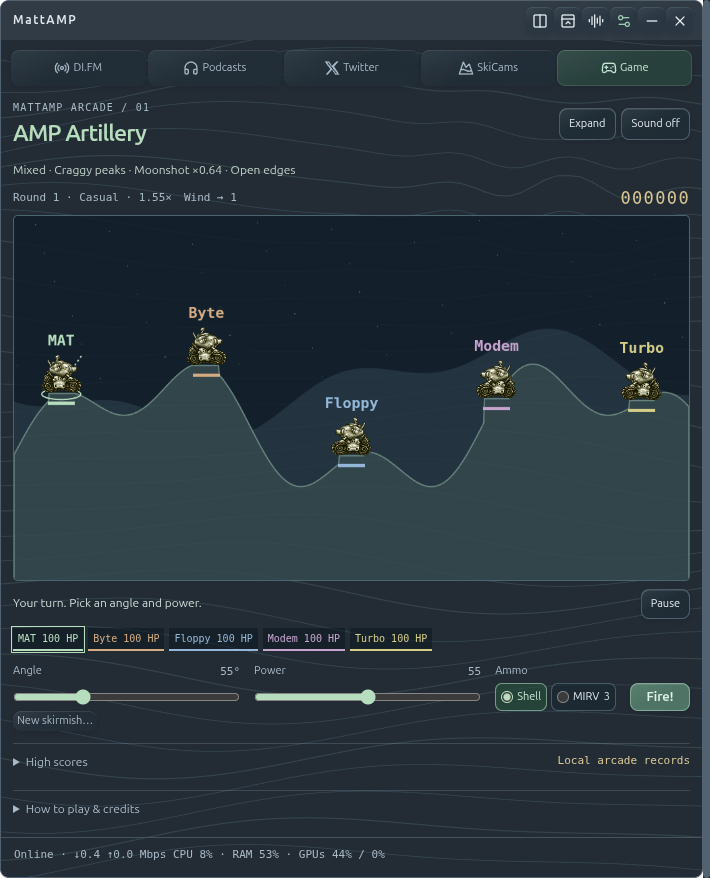
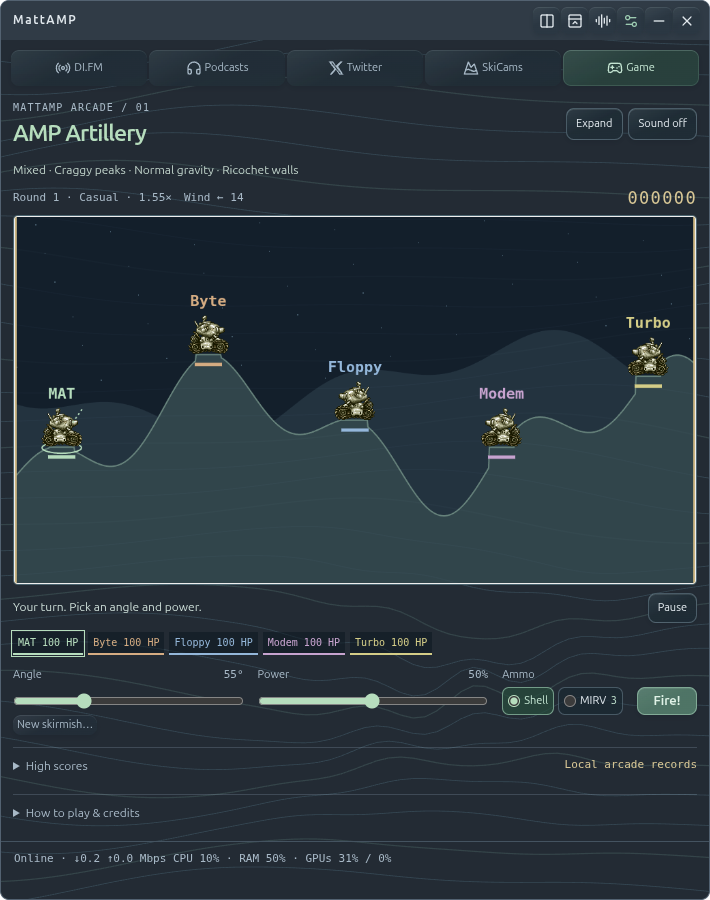
Rebalance artillery power and show bot launch settings

diff --git a/src/artillery-ui.js b/src/artillery-ui.js
@@ -3,7 +3,7 @@ class MattArcade{
  constructor(panel,onResize){
   this.panel=panel;this.onResize=onResize;this.$=id=>panel.querySelector('#game-'+id);this.canvas=this.$('canvas');this.ctx=this.canvas.getContext('2d');
   this.visible=false;this.expanded=false;this.paused=false;this.sound=true;this.battle=null;this.preview=this.createPreview();this.raf=0;this.last=0;this.lastState='';this.record=null;this.saving=false;this.audio=[];this.assets={};
-  this.bubbleTimer=0;this.lastQuip='';this.volley=null;this.dance=null;
+  this.shotTimer=0;this.bubbleTimer=0;this.lastQuip='';this.volley=null;this.dance=null;
   this.victory=new MattVictory(this.$('victory'),()=>{if(this.visible)(this.$('again').disabled?this.canvas:this.$('again')).focus({preventScroll:true});});
   this.victory.motion.addEventListener('change',()=>{if(this.dance&&this.victory.motion.matches)this.finishDance();});
   this.quipResize=new ResizeObserver(()=>this.positionQuip());this.quipResize.observe(this.canvas);
@@ -65,19 +65,25 @@ class MattArcade{
  refreshPreview(){if(this.battle)return;this.preview=this.createPreview();this.render();this.draw();this.onResize();}
  async loadScores(){try{const res=await window.deck.arcadeRead();if(!res.ok)throw new Error(res.error);this.scores=res.data;this.$('initials').value=res.data.initials||'MAT';this.updatePreviewName();this.renderScores();}catch(e){this.$('score-empty').textContent=e.message;}}
  start(){
-  this.victory.stop();this.clearQuip();this.volley=null;this.dance=null;
+  this.victory.stop();this.clearQuip();this.clearShot();this.volley=null;this.dance=null;
   this.battle=this.preview;this.battle.history=(this.scores?.rivalry||[]).slice(-3);this.initials=this.$('initials').value.toUpperCase()||'MAT';this.battle.tanks[0].name=this.initials;this.id=crypto.randomUUID();this.record=null;this.paused=false;this.lastState='';
   this.$('setup').hidden=true;this.$('end').hidden=true;this.$('abandon').hidden=true;this.$('save-retry').hidden=true;this.$('new').hidden=false;
-  this.$('angle').value=this.battle.tanks[0].angle;this.$('power').value=55;this.$('weapon-shell').checked=true;this.updateAim();this.sync();this.$('angle').focus();
+  this.$('angle').value=this.battle.tanks[0].angle;this.$('power').value=50;this.$('weapon-shell').checked=true;this.updateAim();this.sync();this.$('angle').focus();
  }
- reset(){this.victory.stop();this.clearQuip();this.volley=null;this.dance=null;this.battle=null;this.preview=this.createPreview();this.record=null;this.paused=false;this.$('setup').hidden=false;this.$('end').hidden=true;this.$('abandon').hidden=true;this.$('new').hidden=true;this.$('roster').replaceChildren();this.sync();this.$('start').focus();}
+ reset(){this.victory.stop();this.clearQuip();this.clearShot();this.volley=null;this.dance=null;this.battle=null;this.preview=this.createPreview();this.record=null;this.paused=false;this.$('setup').hidden=false;this.$('end').hidden=true;this.$('abandon').hidden=true;this.$('new').hidden=true;this.$('roster').replaceChildren();this.sync();this.$('start').focus();}
  updateAim(){
-  const angle=Number(this.$('angle').value),power=Number(this.$('power').value);this.$('angle-value').textContent=angle+'°';this.$('power-value').textContent=power;
+  const angle=Number(this.$('angle').value),power=Number(this.$('power').value);this.$('angle-value').textContent=angle+'°';this.$('power-value').textContent=power+'%';this.$('power').setAttribute('aria-valuetext',power+' percent');
   if(this.battle?.phase==='aim'&&this.battle.active.id===0){this.battle.active.angle=angle;this.battle.active.power=power;}
  }
  adjustAim(control,delta){const input=this.$(control);input.value=Math.max(Number(input.min),Math.min(Number(input.max),Number(input.value)+delta));this.updateAim();this.draw();}
  captureVolley(){return {owner:this.battle.active.id,tanks:this.battle.tanks.map(({id,x,y,hp})=>({id,x,y,hp}))};}
  fire(){if(this.paused||!this.visible||!this.battle)return;const volley=this.captureVolley();if(this.battle.active.id===0&&this.battle.fire(Number(this.$('angle').value),Number(this.$('power').value),(this.$('weapon-mirv').checked?'mirv':'shell'))){this.volley=volley;this.playSound('fire');this.sync();}}
+ clearShot(){clearTimeout(this.shotTimer);this.$('shot').hidden=true;}
+ showBotShot(tank){
+  this.clearShot();if(tank.id===0)return;
+  this.$('shot').textContent=tank.name+' · '+Math.round(tank.angle)+'° · '+Math.round(tank.power)+'% power';
+  this.$('shot').hidden=false;this.shotTimer=setTimeout(()=>this.clearShot(),3000);
+ }
  clearQuip(){clearTimeout(this.bubbleTimer);this.$('quip').hidden=true;}
  positionQuip(){const bubble=this.$('quip');if(bubble.hidden||!this.quipSpeaker)return;const x=this.quipSpeaker.x/1000*this.canvas.clientWidth-bubble.offsetLeft;bubble.style.setProperty('--tail-x',Math.max(14,Math.min(bubble.clientWidth-14,x))+'px');}
  reactToVolley(){
@@ -111,7 +117,7 @@ class MattArcade{
  setExpanded(expanded){this.expanded=expanded;this.panel.classList.toggle('game-expanded',expanded);document.getElementById('deck').classList.toggle('arcade-expanded',expanded);window.scrollTo(0,0);this.$('expand').textContent=expanded?'Restore':'Expand';this.$('expand').setAttribute('aria-pressed',String(expanded));this.onResize();}
  setVisible(visible){if(this.visible===visible)return;this.visible=visible;if(!visible)this.silence();this.sync();}
  sync(){
-  if(!this.visible||this.paused){this.clearQuip();this.victory.stop();this.dance=null;}
+  if(!this.visible||this.paused){this.clearQuip();this.clearShot();this.victory.stop();this.dance=null;}
   cancelAnimationFrame(this.raf);this.raf=0;this.last=0;this.render();this.draw();
   if(this.visible&&!this.paused&&this.battle&&(this.battle.phase!=='over'||this.dance))this.raf=requestAnimationFrame(t=>this.tick(t));
   if(this.paused)this.silence();this.onResize();
@@ -125,7 +131,7 @@ class MattArcade{
    this.draw();this.raf=requestAnimationFrame(t=>this.tick(t));return;
   }
   const phase=b.phase,blasts=b.blasts.length,children=b.projectiles.length,volley=phase==='aim'?this.captureVolley():null;b.step(dt);
-  if(phase==='aim'&&b.phase==='flight'){this.volley={...volley,target:b.lastTarget};this.playSound('fire');this.tauntRival();}
+  if(phase==='aim'&&b.phase==='flight'){this.volley={...volley,target:b.lastTarget};this.playSound('fire');this.showBotShot(b.active);this.tauntRival();}
   if(phase==='flight'&&b.phase==='settle')this.reactToVolley();
   if(b.blasts.length>blasts)this.playSound('blast');
   if(children===1&&b.projectiles.length===5)this.playSound('split');
@@ -135,7 +141,7 @@ class MattArcade{
   if(b.phase==='over'){
    b.blasts=[];this.draw();
    if(!this.record){
-    this.record=b.record(this.initials,this.id);this.clearQuip();
+    this.record=b.record(this.initials,this.id);this.clearQuip();this.clearShot();
     const winner=b.tanks.find(t=>t.hp>0);
     if(winner&&!this.victory.motion.matches)this.dance={id:winner.id,elapsed:0,wheelie:Math.random()<1/3};
     if(b.result==='win')this.silence();else this.playSound('loss');

diff --git a/src/artillery.js b/src/artillery.js
@@ -5,6 +5,8 @@
  const SKILLS=[{name:'Very dumb',error:200,retaliation:.15,samples:8,multiplier:1},{name:'Casual',error:110,retaliation:.65,samples:28,multiplier:1.35},{name:'Sharp',error:55,retaliation:1.3,samples:90,multiplier:1.8},{name:'Human-ish',error:28,retaliation:2,samples:160,multiplier:2.2}];
  const COLORS=['#b6ddbd','#d5ac82','#94b7da','#c7a3cf','#d4cd87','#83c5c2'];
  const clamp=(n,a,b)=>Math.max(a,Math.min(b,n));
+ // Fine control for nearby shots; retain the old maximum for long lobs and wild wind.
+ const launchSpeed=power=>40+530*(clamp(power,1,100)/100)**2;
  const TERRAINS={rolling:'Rolling hills',valley:'Valley',crags:'Craggy peaks',plateaus:'Plateaus',flat:'Flatlands'};
  const GRAVITY={normal:125,moon:80,heavy:200};
  const GRAVITY_NAMES={normal:'Normal gravity',moon:'Moonshot ×0.64',heavy:'Heavy gravity ×1.6'};
@@ -42,7 +44,7 @@
    }
    const slots=Array.from({length:this.bots+1},(_,i)=>70+i*860/this.bots);
    const playerSlot=Math.floor(random()*slots.length);
-   this.tanks=slots.map((x,i)=>({id:i===playerSlot?0:i<playerSlot?i+1:i,name:i===playerSlot?'YOU':['Byte','Floppy','Modem','Turbo','DOS'][i<playerSlot?i:i-1],x,y:this.ground(x)-8,hp:100,mirvs:3,angle:x<W/2?55:125,power:55,color:COLORS[i===playerSlot?0:i<playerSlot?i+1:i]})).sort((a,b)=>a.id-b.id);
+   this.tanks=slots.map((x,i)=>({id:i===playerSlot?0:i<playerSlot?i+1:i,name:i===playerSlot?'YOU':['Byte','Floppy','Modem','Turbo','DOS'][i<playerSlot?i:i-1],x,y:this.ground(x)-8,hp:100,mirvs:3,angle:x<W/2?55:125,power:50,color:COLORS[i===playerSlot?0:i<playerSlot?i+1:i]})).sort((a,b)=>a.id-b.id);
    for(const tank of this.tanks)for(let x=Math.round(tank.x)-18;x<=tank.x+18;x++)this.terrain[x]=tank.y+8;
    this.turn=0;this.round=1;this.shots=0;this.kills=0;this.damage=0;this.phase='aim';this.projectiles=[];this.blasts=[];this.lastTrails=[];this.wind=this.newWind();this.delay=0;this.result=null;
    this.message='Your turn. Pick an angle and power.';
@@ -58,11 +60,11 @@
   }
   get multiplier(){return SKILLS[this.skill].multiplier*(1+(this.bots-3)*.15);}
   get score(){return Math.round((this.damage*10+this.kills*250+(this.result==='win'?1000+this.tanks[0].hp*5:0))*this.multiplier);}
-  projectile(tank,angle,power,weapon){const r=angle*Math.PI/180,speed=100+power*4.7;return {x:tank.x+Math.cos(r)*18,y:tank.y-Math.sin(r)*18,vx:Math.cos(r)*speed,vy:-Math.sin(r)*speed,weapon,owner:tank.id,time:0,trail:[]};}
+  projectile(tank,angle,power,weapon){const r=angle*Math.PI/180,speed=launchSpeed(power);return {x:tank.x+Math.cos(r)*18,y:tank.y-Math.sin(r)*18,vx:Math.cos(r)*speed,vy:-Math.sin(r)*speed,weapon,owner:tank.id,time:0,trail:[]};}
   fire(angle,power,weapon='shell'){
    if(this.phase!=='aim'||this.active.hp<=0||!Number.isFinite(angle)||!Number.isFinite(power)||!['shell','mirv'].includes(weapon))return false;
    if(weapon==='mirv'&&this.active.mirvs<=0)return false;
-   this.active.angle=clamp(angle,5,175);this.active.power=clamp(power,10,100);
+   this.active.angle=clamp(angle,5,175);this.active.power=clamp(power,1,100);
    if(weapon==='mirv')this.active.mirvs--;
    if(this.active.id===0)this.shots++;
    this.projectiles=[this.projectile(this.active,this.active.angle,this.active.power,weapon)];this.lastTrails=[];this.phase='flight';this.message=this.active.name+' fired '+(weapon==='mirv'?'a MIRV.':'a shell.');return true;
@@ -110,11 +112,11 @@
    // Reputation changes target odds equally for human and bot identities, never accuracy.
    const tank=this.active,target=this.chooseTarget(),skill=SKILLS[this.skill];
    const targetX=clamp(target.x+(this.random()-.5)*2*skill.error,15,W-15);
-   let best={angle:55,power:55,cost:Infinity};
+   let best={angle:55,power:50,cost:Infinity};
    for(let i=0;i<skill.samples;i++){
     // Special boundaries make firing away from the target a valid bank/portal shot.
     const right=(targetX>tank.x)!==(this.conditions.walls!=='open'&&i%3===0);
-    const angle=right?10+this.random()*75:95+this.random()*75,power=20+this.random()*80;
+    const angle=right?10+this.random()*75:95+this.random()*75,power=1+this.random()*99;
     const p=this.predict(tank,angle,power),cost=Math.hypot(p.x-targetX,p.y-target.y)+(Math.abs(p.x-tank.x)<55?180:0);
     if(cost<best.cost)best={angle,power,cost};
    }
@@ -171,6 +173,6 @@
   memory(){const alive=this.tanks.filter(t=>t.hp>0);return {winner:alive.length===1?alive[0].id:null,damage:this.damageLedger.map(row=>[...row])};}
   record(initials,id){if(this.phase!=='over')return null;return {id,initials,score:this.score,win:this.result==='win',result:this.result,bots:this.bots,skill:this.skill,kills:this.kills,shots:this.shots,conditions:{...this.conditions},memory:this.memory()};}
  }
- const api={Battle,SKILLS,COLORS,W,H,CHAOS,TERRAINS,GRAVITY,WALLS,rollConditions,validateConditions,describeConditions};
+ const api={Battle,launchSpeed,SKILLS,COLORS,W,H,CHAOS,TERRAINS,GRAVITY,WALLS,rollConditions,validateConditions,describeConditions};
  if(typeof module==='object'&&module.exports)module.exports=api;else root.MattArtillery=api;
 })(typeof window==='object'?window:globalThis);

diff --git a/src/index.html b/src/index.html
@@ -50,13 +50,13 @@
    </form>
    <p id="game-conditions" class="game-conditions" aria-live="polite"></p>
    <div class="game-hud"><span id="game-round">Last tank standing</span><span id="game-wind">Wind —</span><strong id="game-score">000000</strong></div>
-   <section id="game-victory" aria-label="Victory celebration" hidden></section><div class="game-stage"><div class="game-field"><canvas id="game-canvas" tabindex="0" width="1000" height="540" role="img" aria-label="Artillery battlefield. Aim with the controls below."></canvas><div id="game-quip" role="status" aria-live="polite" aria-atomic="true" hidden><strong id="game-quip-name"></strong><span id="game-quip-text"></span></div><div id="game-overlay"><strong id="game-overlay-title">A little scorched nostalgia.</strong><span id="game-overlay-detail">One ridge. You and 3–5 bots. Three MIRVs each.</span><span id="game-replay-hint" hidden>Click the battlefield for a new skirmish.</span></div><button id="game-again" type="button" aria-label="New skirmish" aria-describedby="game-save-status" hidden><span class="sr-only">New skirmish</span></button></div></div>
+   <section id="game-victory" aria-label="Victory celebration" hidden></section><div class="game-stage"><div class="game-field"><div id="game-shot" role="status" aria-live="polite" aria-atomic="true" hidden></div><canvas id="game-canvas" tabindex="0" width="1000" height="540" role="img" aria-label="Artillery battlefield. Aim with the controls below."></canvas><div id="game-quip" role="status" aria-live="polite" aria-atomic="true" hidden><strong id="game-quip-name"></strong><span id="game-quip-text"></span></div><div id="game-overlay"><strong id="game-overlay-title">A little scorched nostalgia.</strong><span id="game-overlay-detail">One ridge. You and 3–5 bots. Three MIRVs each.</span><span id="game-replay-hint" hidden>Click the battlefield for a new skirmish.</span></div><button id="game-again" type="button" aria-label="New skirmish" aria-describedby="game-save-status" hidden><span class="sr-only">New skirmish</span></button></div></div>
    <div class="game-console">
    <div class="game-turn"><p id="game-status" role="status">Choose your rivals, then start a battle.</p><button id="game-pause" disabled>Pause</button></div>
    <div id="game-roster" class="game-roster" aria-label="Tank health"></div>
    <fieldset id="game-controls" disabled><legend class="sr-only">Aim and fire</legend>
     <label>Angle <output id="game-angle-value" for="game-angle">55°</output><input id="game-angle" type="range" min="5" max="175" value="55"></label>
-    <label>Power <output id="game-power-value" for="game-power">55</output><input id="game-power" type="range" min="10" max="100" value="55"></label>
+    <label>Power <output id="game-power-value" for="game-power">50%</output><input id="game-power" type="range" min="1" max="100" value="50"></label>
     <fieldset id="game-ammo"><legend>Ammo</legend><label><input id="game-weapon-shell" name="game-weapon" type="radio" value="shell" aria-label="Shell, unlimited" checked><span>Shell</span></label><label><input id="game-weapon-mirv" name="game-weapon" type="radio" value="mirv" aria-label="MIRV, 3 left"><span>MIRV <span id="game-mirv-count">3</span></span></label></fieldset><button id="game-fire" class="primary">Fire!</button>
    </fieldset>
    </div>

diff --git a/src/artillery.css b/src/artillery.css
@@ -92,3 +92,6 @@
 .game-expanded .game-conditions{flex:none;width:min(100%,1200px);margin:0 auto}
 #game-panel td:last-child{min-width:160px;max-width:230px;font:11px/1.5 system-ui,sans-serif;color:#b7c8d1}
 @container(max-width:450px){.game-setup{display:grid;grid-template-columns:60px 1fr 1fr 1fr}.game-setup button{grid-column:1/-1}.game-setup select{min-width:0;width:100%;padding-inline:5px}.game-setup label{min-width:0}}
+
+/* Shot telemetry stays clear of the controls and never changes window size. */
+#game-shot{position:absolute;z-index:2;top:10px;left:10px;max-width:calc(100% - 20px);padding:6px 9px;border:1px solid #66817c;border-radius:5px;background:rgba(16,28,35,.94);color:#d8e7df;font:12px/1.4 ui-monospace,monospace;font-variant-numeric:tabular-nums;pointer-events:none}

diff --git a/docs/images/README.md b/docs/images/README.md
@@ -7,12 +7,13 @@ Captured from MattAMP in October 2026 using a fresh, isolated profile. These are
 | `desktop.png` | Five-tab navigation, Synthwave artwork, wave background, and live workstation meters. Radio is stopped because this profile has no Premium key. |
 | `skicams.png` | Heavenly's real Top of Tram player inside SkiCams, with 15-minute auto-cycle enabled. The provider controls the stream and its availability. |
 | `skicams-settings.png` | The camera settings section with the four default views and favorite-management controls. |
-| `artillery.png` | An expanded five-tank skirmish with a Mixed arena, Moonshot gravity, and MAT as the player tank name. |
+| `artillery.png` | An expanded five-tank skirmish with a Mixed arena, the updated 50% power default, and MAT as the player tank name. |
 | `stacked.png`, `compact.png`, `bug.png` | The other three desktop layouts; the bug is captured at its native 56 × 56 size. |
 | `podcasts-youtube.png`, `podcasts-audio.png` | The same real Last Week in AI episode loaded through the YouTube and RSS players, ready to play. |
 | `podcasts-settings.png` | The editable default podcast library. |
 | `twitter.png` | Twitter's actual signed-out page inside the app, with both feed filter buttons visible. No account was signed in for this capture. |
 | `background-flow.png`, `background-stars.png`, `background-mandelbrot.png`, `background-off.png` | Each alternative background setting; `desktop.png` shows Water waves. Animation is frozen at the captured frame. |
+| `bot-shot.png` | A staged bot launch captured from the real battlefield: the three-second angle/power readout. |
 | `game-widget.png` | A normal-size artillery battle, before expanding the window. |
 | `victory.png` | The app's actual WebGL victory ceremony. A winning game state was staged in the isolated profile to capture it. |
 

diff --git a/docs/artillery.md b/docs/artillery.md
@@ -29,6 +29,12 @@ Game keeps the window size you choose through battle resets, results, and new sk
 
 Narrow layouts wrap the controls as needed. Expanded mode keeps the title bar, source tabs, battlefield, and aiming controls available; scores and credits have their own scrolling area.
 
+**Power runs from 1–100%, starting at 50%.** The lower and middle range give finer control for nearby tanks, with the old full-power speed still available for long shots. Bots use the same scale.
+
+When a bot fires, a small readout shows its name, launch angle, and power for three seconds. It leaves your own aiming controls unchanged and clears when you leave or reset the battle.
+
+![Byte fires at 66 degrees and 54 percent power, shown briefly above the battlefield](images/bot-shot.png)
+
 Radio or audio podcasts can continue. Game **Sound on/off** is independent. Switching tabs, opening Settings, hiding the app, or entering bug mode freezes the battle. YouTube pauses when hidden.
 
 ## Wind: sometimes a suggestion, sometimes a grudge

diff --git a/README.md b/README.md
@@ -204,6 +204,8 @@ Your favorites and rotation preferences stay on your machine. No MattAMP account
 
 ![Expanded AMP Artillery battlefield with five tanks labeled with arcade names and aiming controls](docs/images/artillery.png)
 
+Power now uses a gentler **1–100%** scale, starting at **50%**, so close shots have room on the dial. Bot shots briefly show the shooter’s angle and power.
+
 You get unlimited shells and **three MIRVs**, each splitting into five warheads. Terrain deforms, splash damage hurts, falling hurts, and wind occasionally decides that your carefully calculated shot belongs in another postcode.
 
 **New in the current source (after v0.2.0):** getting knocked out puts you in spectator mode. The bots finish their fight on-screen, and the survivor does a dumb little victory dance—occasionally a wheelie. Scores and grudges use the actual final result.
